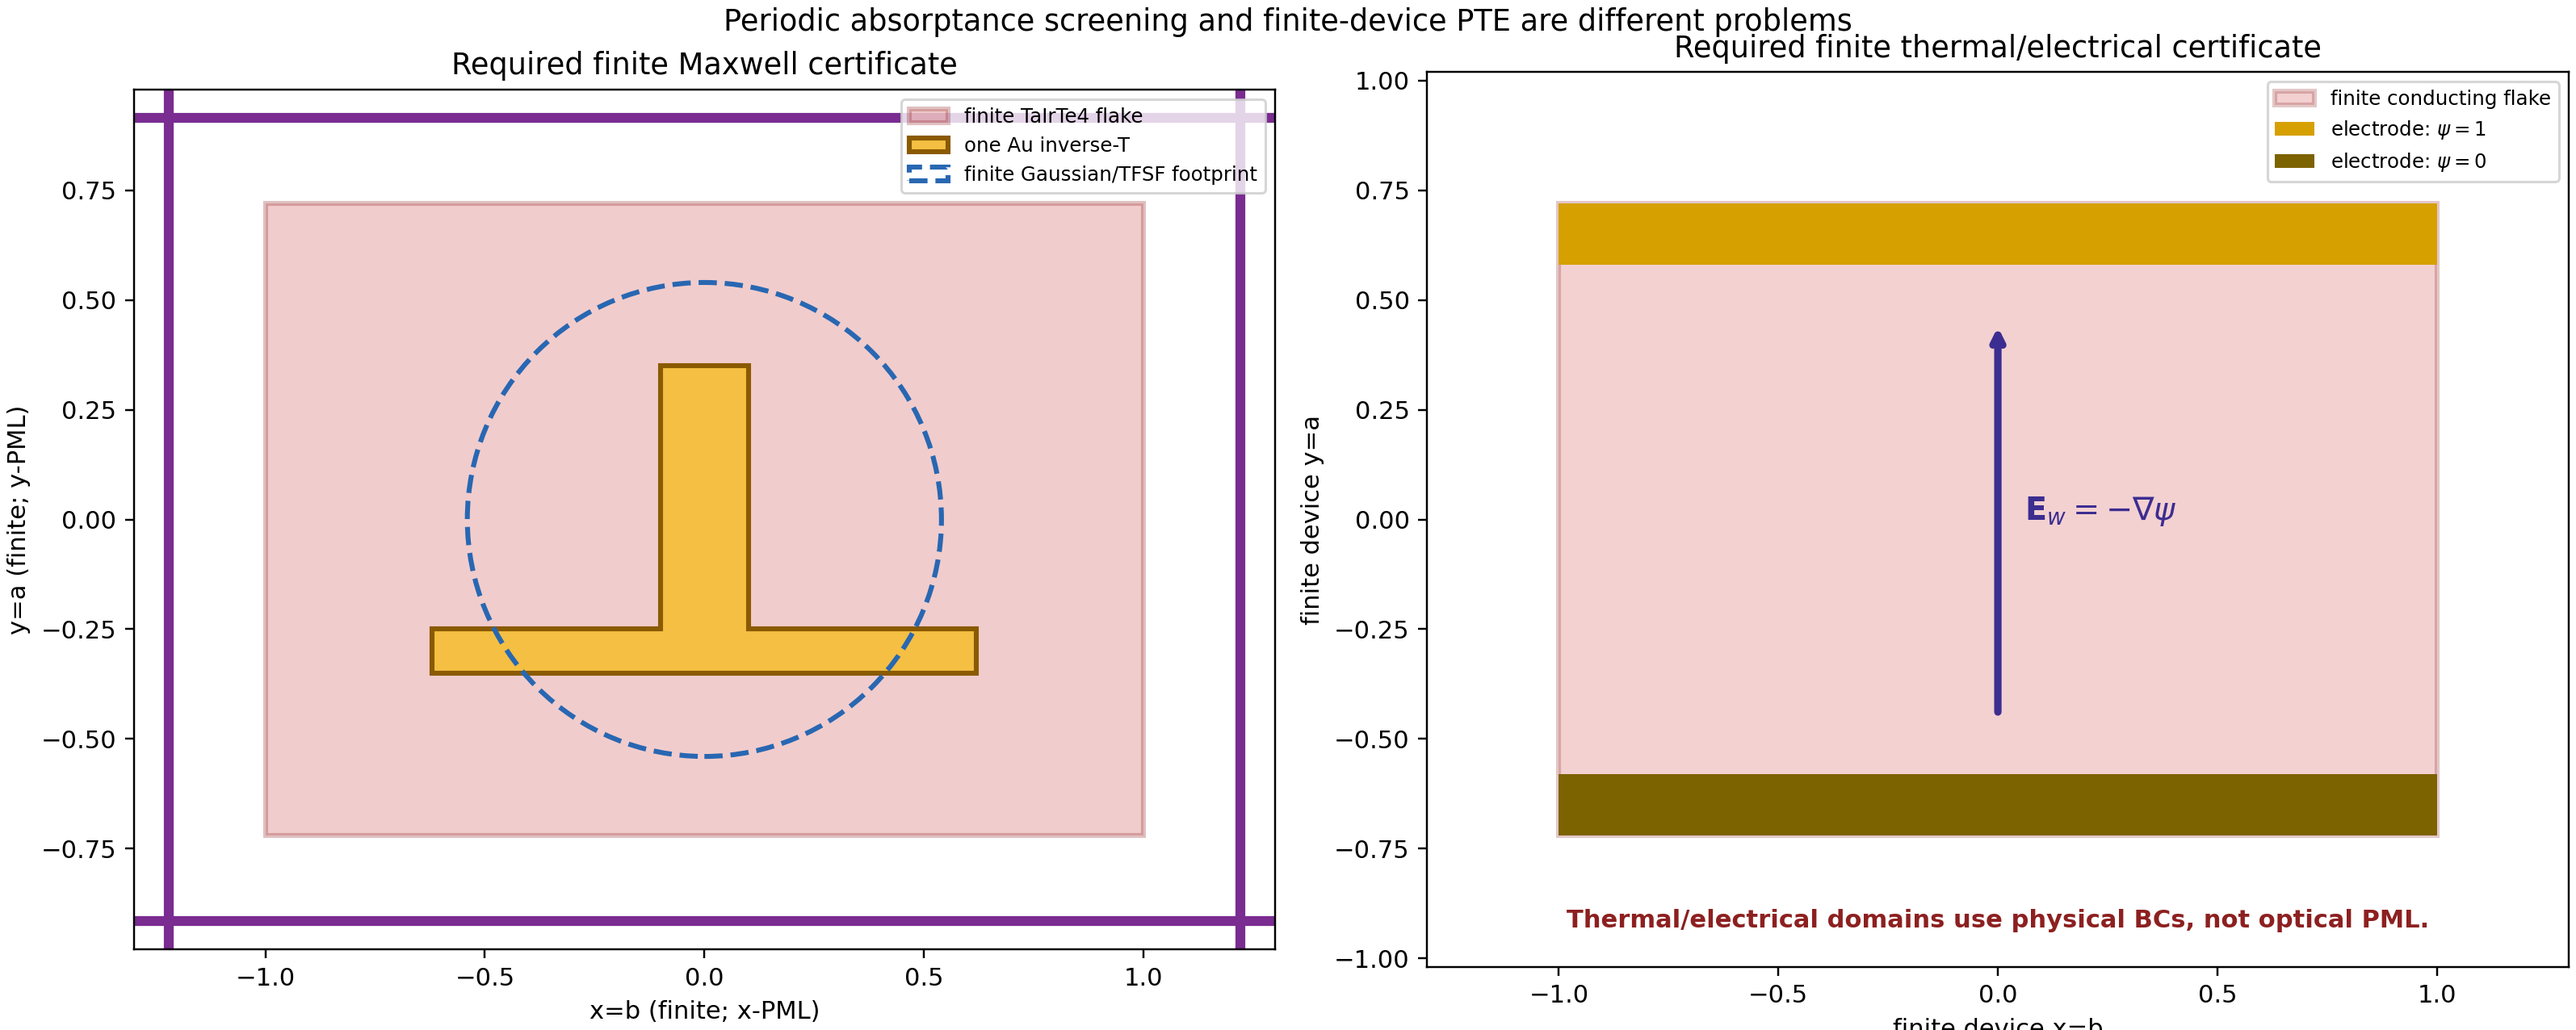
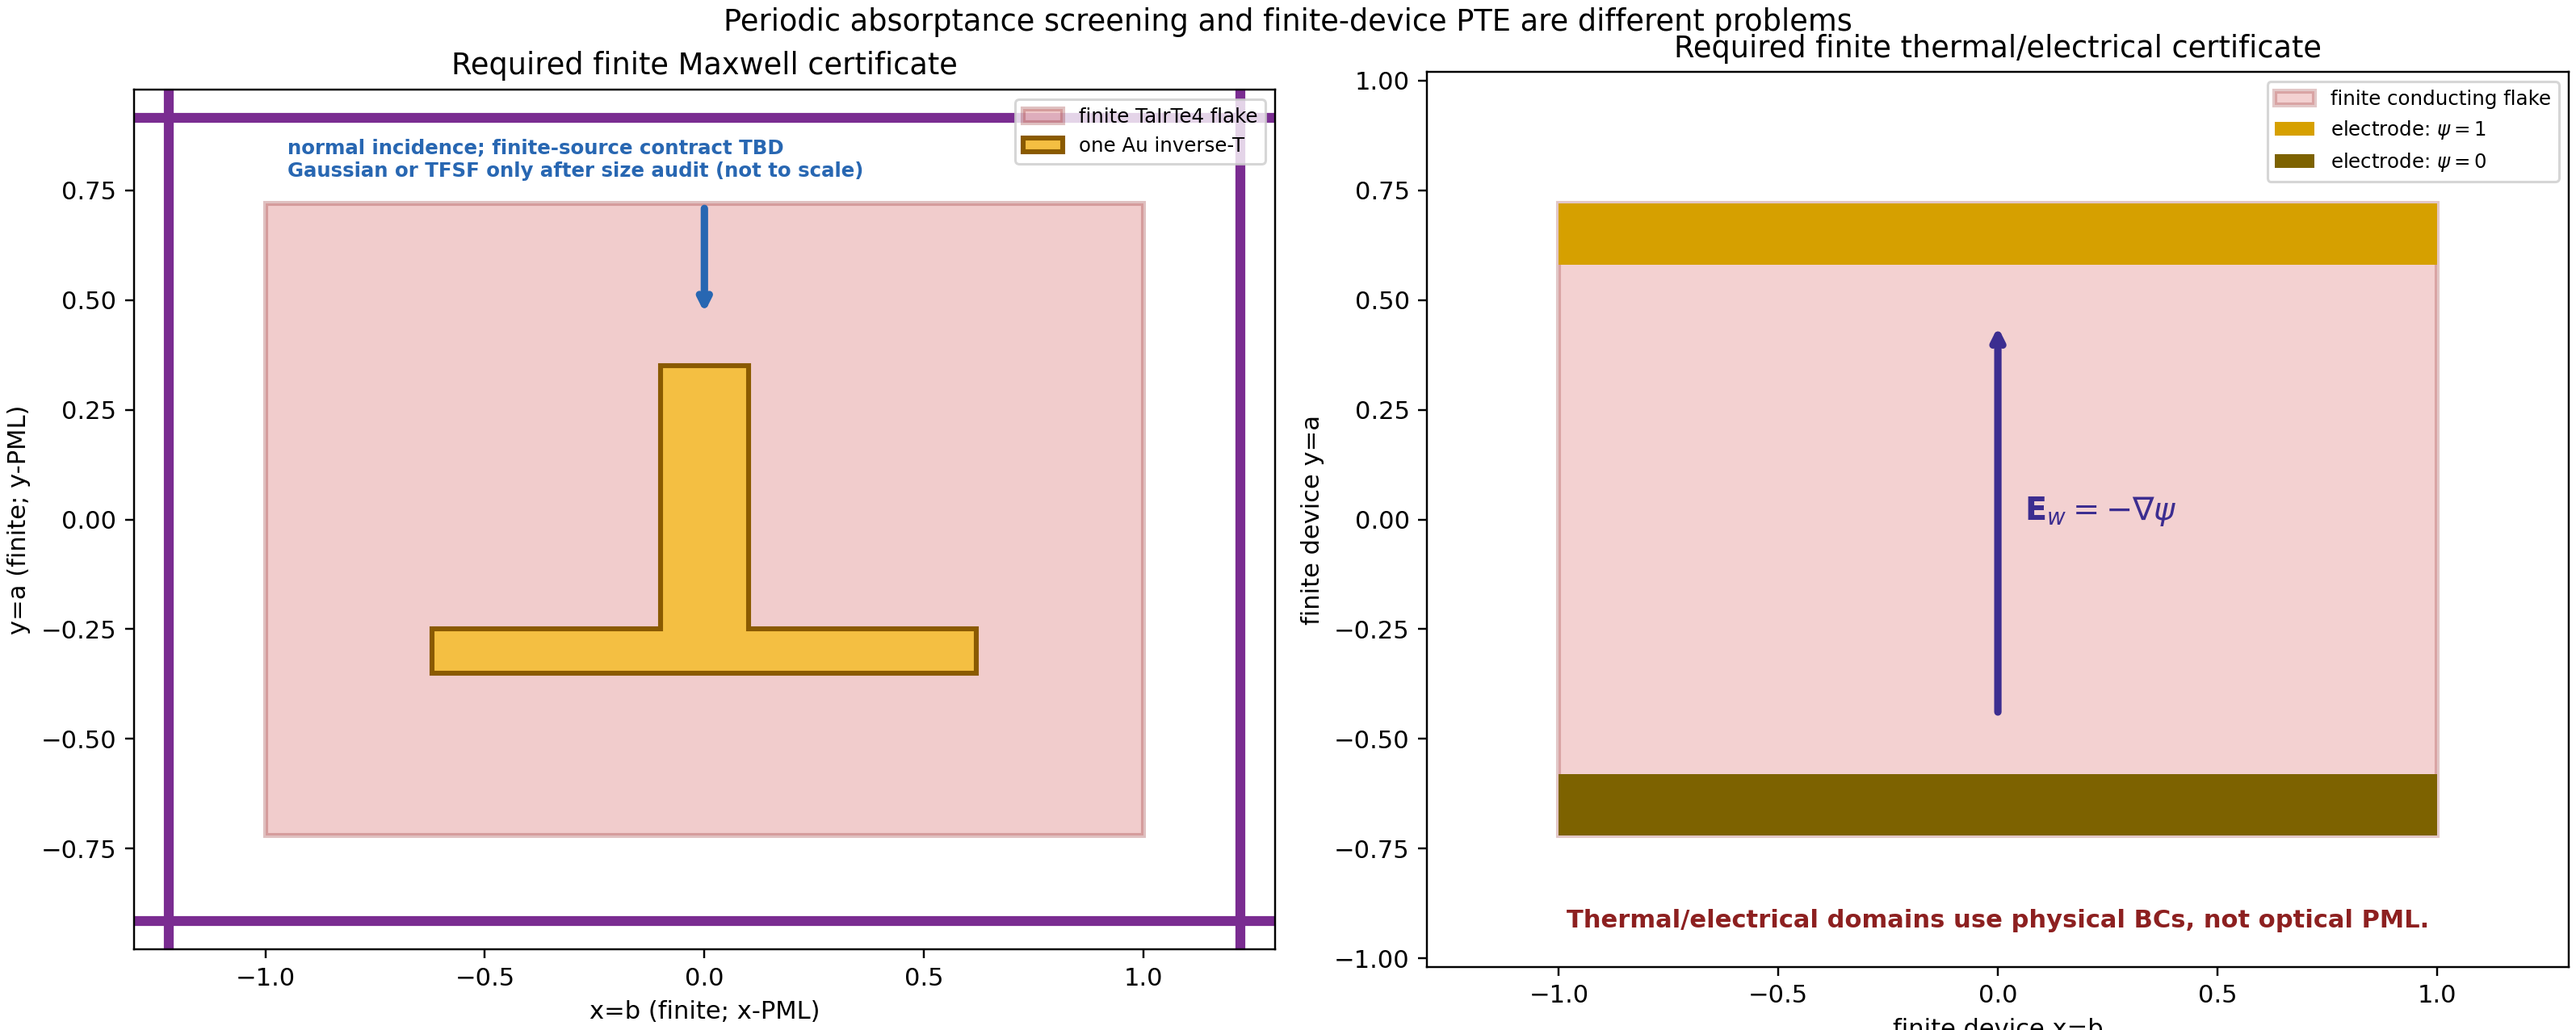
Clarify plane-wave source and finite-source size gate

Changed region(s): [[0.0931, 0.0917, 0.4966, 0.1834], [0.2483, 0.2139, 0.3103, 0.3056], [0.2793, 0.703, 0.3103, 0.7335]]

diff --git a/photothermal_pte/optimization_runs/au_on_fixed_tairte4_validation/paper_architectures/13_publish_periodic_and_finite_scope_materials.py b/photothermal_pte/optimization_runs/au_on_fixed_tairte4_validation/paper_architectures/13_publish_periodic_and_finite_scope_materials.py
@@ -166,8 +166,13 @@ def finite_scope_figure(path: Path) -> None:
     ax.add_patch(Rectangle((-1.0, -0.72), 2.0, 1.44, facecolor="#d04b4b", alpha=0.28, edgecolor="#8d2020", lw=2, label="finite TaIrTe4 flake"))
     vertices = np.array([[-0.62,-0.35],[0.62,-0.35],[0.62,-0.25],[0.10,-0.25],[0.10,0.35],[-0.10,0.35],[-0.10,-0.25],[-0.62,-0.25]])
     ax.fill(vertices[:,0], vertices[:,1], color="#f4bf42", edgecolor="#8a5a00", lw=2, label="one Au inverse-T")
-    circle = plt.Circle((0,0), 0.54, fill=False, color="#2867b2", lw=2, ls="--", label="finite Gaussian/TFSF footprint")
-    ax.add_patch(circle)
+    ax.annotate("", xy=(0, 0.46), xytext=(0, 0.72),
+                arrowprops={"arrowstyle": "->", "lw": 3, "color": "#2867b2"})
+    ax.text(-0.95, 0.82,
+            "normal incidence; finite-source contract TBD\n"
+            "Gaussian or TFSF only after size audit (not to scale)",
+            ha="left", va="center", color="#2867b2", fontsize=8.0,
+            weight="bold")
     for coordinate in (-1.22, 1.22):
         ax.axvline(coordinate, color="#7a2c91", lw=4)
         ax.axhline(coordinate*0.75, color="#7a2c91", lw=4)

diff --git a/photothermal_pte/optimization_runs/au_on_fixed_tairte4_validation/paper_architectures/12_publish_detailed_meeting_materials.py b/photothermal_pte/optimization_runs/au_on_fixed_tairte4_validation/paper_architectures/12_publish_detailed_meeting_materials.py
@@ -483,6 +483,11 @@ L/W/P/D but not a unique arm offset/junction CAD, so it remains fail-closed.
 optical heat-source effect. Explicit thermal and electrical solves are the
 next separate gates.
 
+**Was a Gaussian beam used?**  No. All four present 4.75-um cases use a
+normal-incidence Bloch/Periodic plane wave. A Gaussian or TFSF source appears
+only in the proposed finite-device gate; its footprint is not yet fixed and
+must not be inferred from the 1500 nm x 1000 nm unit cell.
+
 ## Suggested slide order
 
 1. `periodic_canonical/00_periodic_structure_3x3.png`: establish that the

diff --git a/photothermal_pte/optimization_runs/au_on_fixed_tairte4_validation/paper_architectures/results_actual_metasurfaces/meeting_plot_package/PERIODIC_VS_FINITE_SCOPE.md b/photothermal_pte/optimization_runs/au_on_fixed_tairte4_validation/paper_architectures/results_actual_metasurfaces/meeting_plot_package/PERIODIC_VS_FINITE_SCOPE.md
@@ -10,6 +10,11 @@ unit-cell problem:
 - one 1500 nm x 1000 nm cell repeated infinitely;
 - absorbed optical power and TaIrTe4 heat-source shape per cell.
 
+All four published cases (`T_Ea`, `T_Eb`, `bare_Ea`, and `bare_Eb`) use this
+Bloch/Periodic plane wave.  **No Gaussian beam was used in these results.**
+In particular, no physical Gaussian spot was fitted inside the 1500 nm x
+1000 nm unit cell.
+
 The raw pabs monitor stores duplicated/staggered endpoint planes.  A thin
 line at the plotted endpoint is a numerical periodic seam, not a physical
 flake edge.  The raw data and power integrals are preserved.  The
@@ -42,6 +47,14 @@ The next independent model must contain:
 8. an electrical weighting-potential solve with `psi=1/0` at the two
    terminals and insulating non-contact flake edges;
 9. the full terminal current integral over the finite TaIrTe4 volume.
+
+The finite source type and size are not yet selected.  A Gaussian is allowed
+only if its realized waist and boundary intensity are measured in a domain
+large enough that the field is negligible before the lateral PML.  At the
+present wavelength of 4.75 um, its footprint must not be drawn or assumed to
+fit inside the 1500 nm x 1000 nm periodic cell.  A validated TFSF source is the
+alternative when a finite structure under plane-wave illumination is the
+intended experiment.
 
 Optical PML applies only to Maxwell.  Thermal and electrical problems use
 their own physical boundaries; they do not use PML.

diff --git a/photothermal_pte/optimization_runs/au_on_fixed_tairte4_validation/paper_architectures/results_actual_metasurfaces/meeting_plot_package/MEETING_GUIDE.md b/photothermal_pte/optimization_runs/au_on_fixed_tairte4_validation/paper_architectures/results_actual_metasurfaces/meeting_plot_package/MEETING_GUIDE.md
@@ -68,6 +68,11 @@ L/W/P/D but not a unique arm offset/junction CAD, so it remains fail-closed.
 optical heat-source effect. Explicit thermal and electrical solves are the
 next separate gates.
 
+**Was a Gaussian beam used?**  No. All four present 4.75-um cases use a
+normal-incidence Bloch/Periodic plane wave. A Gaussian or TFSF source appears
+only in the proposed finite-device gate; its footprint is not yet fixed and
+must not be inferred from the 1500 nm x 1000 nm unit cell.
+
 ## Suggested slide order
 
 1. `periodic_canonical/00_periodic_structure_3x3.png`: establish that the
